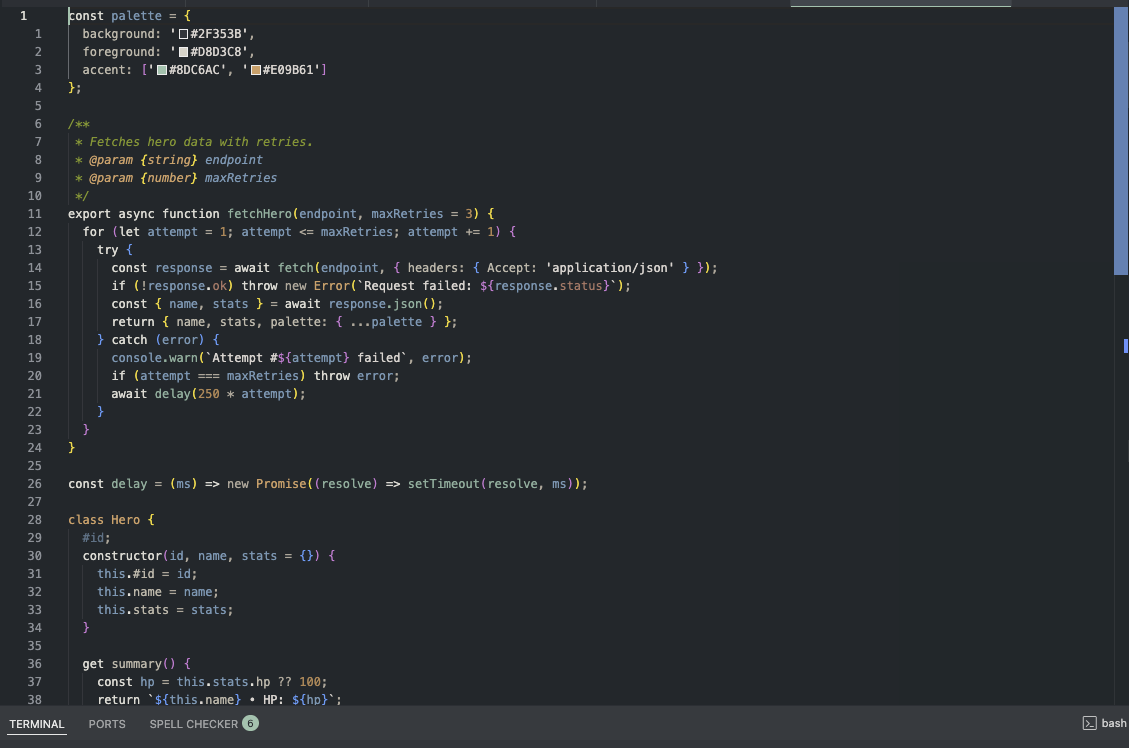
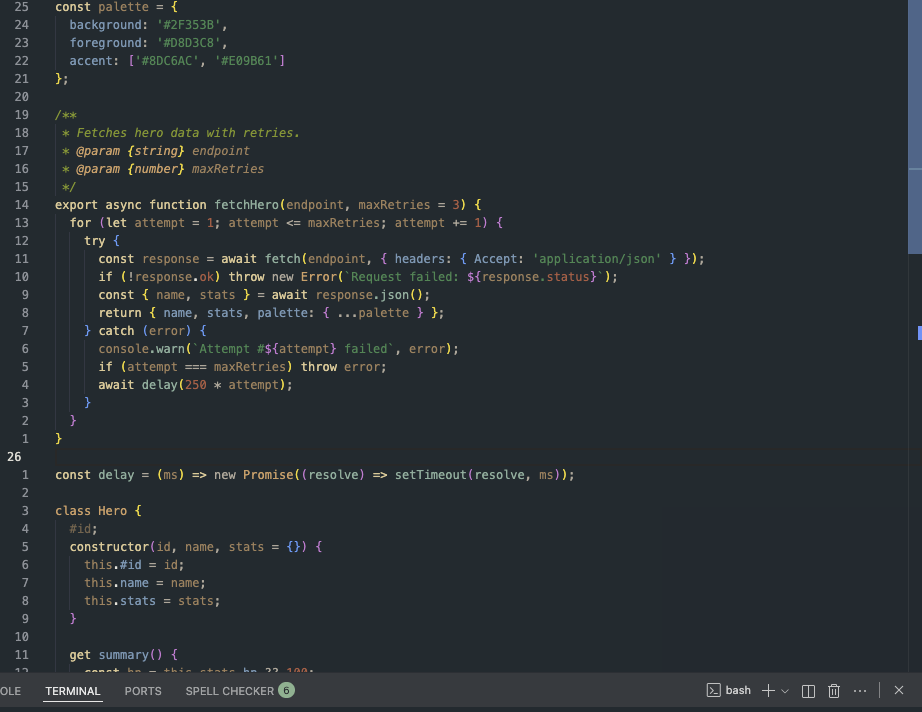
update readme and previews

diff --git a/README.md b/README.md
@@ -1,15 +1,20 @@
 # nkalai Theme
 
-Nkalai is a paired light/dark Visual Studio Code theme designed to stay gentle on your eyes during long editing sessions. Both variants share the same earthy greens, soft neutrals, and muted oranges so flipping between day and night modes never feels jarring.
+Nkalai is a paired light/dark Visual Studio Code theme designed to stay gentle on your eyes during long editing sessions. The latest update dims the light variant by ~4% and keeps both themes aligned around the same accent green, so flipping between day and night modes stays comfortable.
 
 I originally tweaked Wes Bos’ Cobalt2 theme for personal use, but after so many changes it felt right to publish the result as its own palette. This is a passion project rather than a professional product—I’m simply sharing it in case others find the colours helpful.
+
+## Preview
+![nkalai Dark screenshot showing charcoal UI with warm sand text and teal accents](media/preview-dark.png)
+
+![nkalai Light screenshot showing soft parchment UI with earthy syntax accents](media/preview-light.png)
 
 ## Theme Snapshot
 
 | Variant | Background | Foreground | Accent notes |
 | --- | --- | --- | --- |
-| **nkalai Light** | `#F5F2E8` (parchment) | `#2F291F` (deep brown) | Sage greens for cursors/selections, terracotta strings, muted violets for operators. |
-| **nkalai Dark** | `#2F353B` (charcoal) | `#D8D3C8` (warm sand) | Seafoam cursor/accents, amber numbers, rose-gold constants, teal UI highlights. |
+| **nkalai Light** | `#EFEBDE` (soft parchment, 4% dimmer) | `#2F291F` (deep brown) | Accent green `#77B58D` for cursor/selection/badges; strings deep evergreen `#0A7C48`; keywords warm gold `#B58F3A`; operators muted violet-grey `#6B5D6F`. |
+| **nkalai Dark** | `#1E2A30` (deep slate) | `#E6E2D9` (warm sand) | Accent green `#77B58D`; strings evergreen `#078A4F`; keywords soft gold `#E6C791`; operators dusty taupe `#B3A799`. |
 
 Both JSON theme files enable semantic highlighting, so language servers can apply the palette to semantic token classifications such as classes, parameters, and readonly properties.
 
@@ -30,14 +35,9 @@ Both JSON theme files enable semantic highlighting, so language servers can appl
 3. In your primary VS Code window, open the Extensions view → “⋯” menu → *Install from VSIX…* and select the generated `.vsix` file.
 
 ## Palette Highlights
-- **UI chrome:** Activity bar, status bar, tabs, and sidebars reuse the same green accents (`#8DC6AC` / `#7CB099`) to keep affordances consistent between themes.
-- **Syntax:** Strings lean warm (`#E09B61` dark, `#C98652` light), keywords stay neutral, and data keys receive bold tints for JSON-heavy workflows.
-- **Terminals:** Custom ANSI ramps ensure terminals match the editor background for both variants.
-
-## Preview Assets
-![nkalai Light screenshot showing soft parchment UI with earthy syntax accents](media/preview-light.png)
-
-![nkalai Dark screenshot showing charcoal UI with warm sand text and teal accents](media/preview-dark.png)
+- **UI chrome:** Shared accent green `#77B58D` across activity bar, status bar, tabs, badges, progress; light surfaces slightly dimmed neutrals (e.g., `#EEEAE2` panels) to reduce glare.
+- **Syntax:** Strings evergreen (`#078A4F` dark / `#0A7C48` light); keywords warm gold (`#E6C791` / `#B58F3A`); variables & properties copper (`#AB7E58` / `#855C3C`); data keys cool blue (`#6499B5` / `#4B7A97`); operators muted neutrals for subtle contrast.
+- **Terminals:** Backgrounds match the editors (`#1E2A30` dark / `#EFEBDE` light) with cursors and ANSI greens keyed to the accent for consistent inline work.
 
 ## Working on the Theme
 - Edit `themes/nkalai-light-color-theme.json` or `themes/nkalai-dark-color-theme.json`; both are plain JSON, so run `jq empty themes/*.json` (or rely on VS Code diagnostics) before relaunching.
